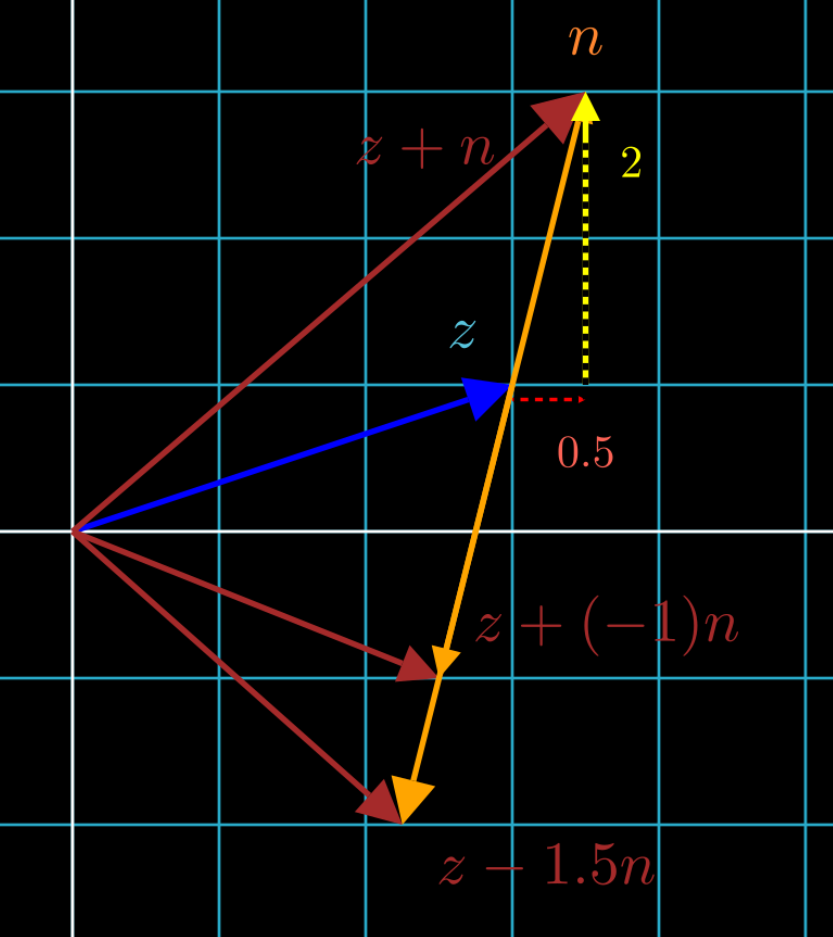
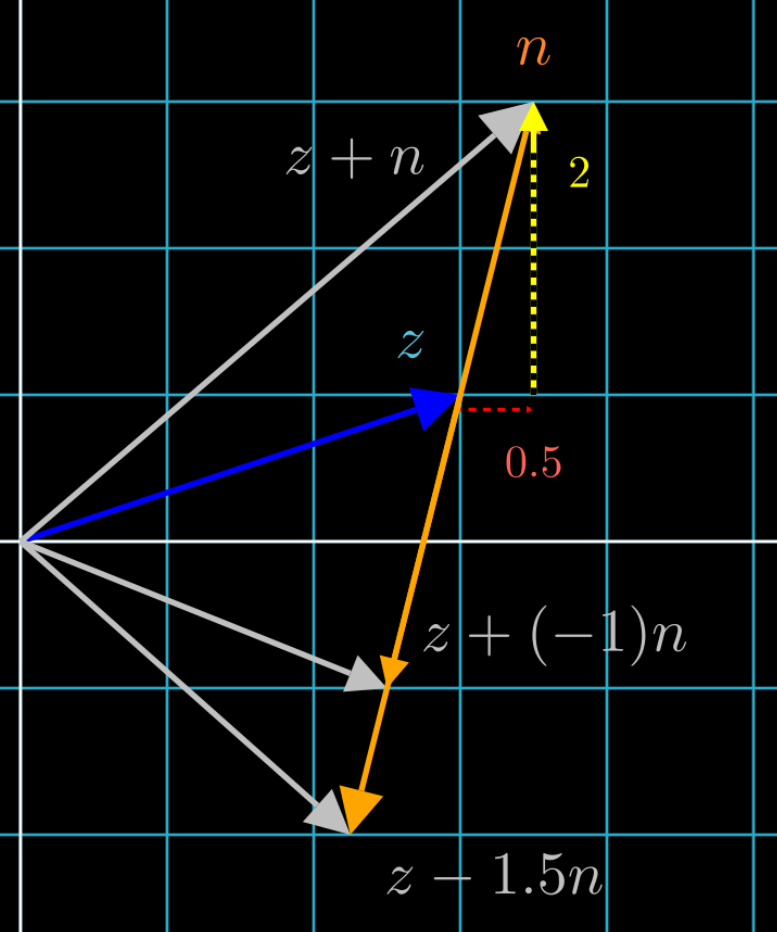
z plus alpha n

Changed region(s): [[0.0, 0.0, 1.0, 1.0], [0.6486, 0.0311, 0.7413, 0.0622]]

diff --git a/ch2.1.md b/ch2.1.md
@@ -106,7 +106,7 @@ Visually, this would look like:
 
 We can add or subtract as many units of "cat" to z as we like.
 
-<img src="/ch2/z_plus_alphan.PNG" width="300" height="200">
+<img src="/ch2/z_plus_alphan.PNG" width="400" height="300">
 
 At first, it's not obvious how we "change z by n cat units". So let's perform a change of basis where the cat feature is mapped to a basis vector, to truly show how each sample is measured in cats:
 
